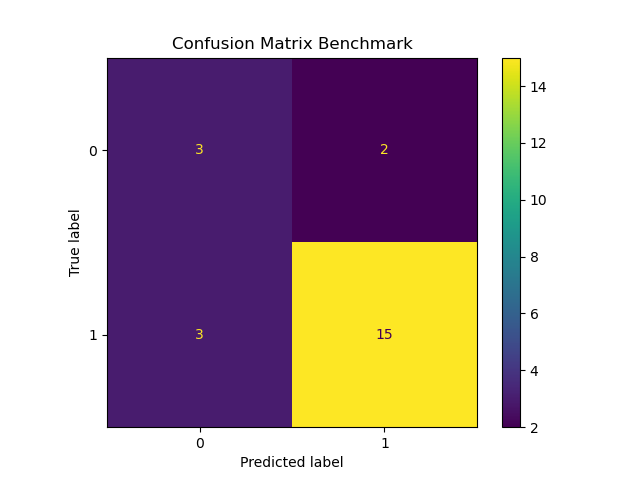
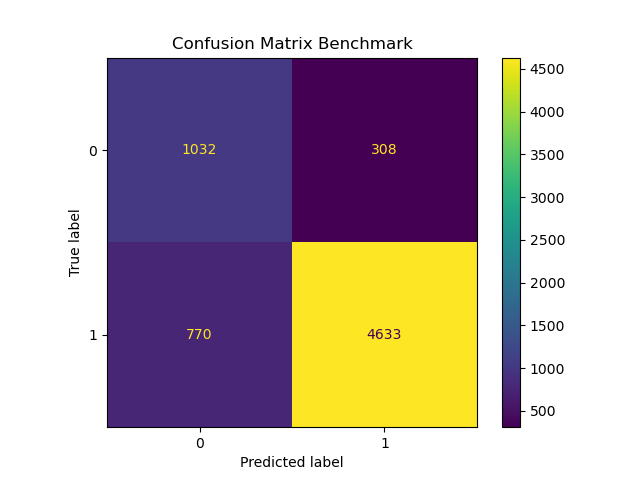
Fixed plots

diff --git a/src/testModels.py b/src/testModels.py
@@ -57,6 +57,7 @@ def load_model(model_name, num_classes):
 def evaluate_model(model, loader, device):
     model.eval()  # Set the model to evaluation mode
     correct, total = 0, 0
+    true_negative, false_positive, false_negative, true_positive = 0, 0, 0, 0  # Initialize here
     tn_hist, tp_hist, fn_hist, fp_hist = torch.zeros(10), torch.zeros(10), torch.zeros(10), torch.zeros(10)
     tn_hist, tp_hist, fn_hist, fp_hist = tn_hist.to(device), tp_hist.to(device), fn_hist.to(device), fp_hist.to(device)
 
@@ -68,10 +69,10 @@ def evaluate_model(model, loader, device):
             preds = torch.argmax(outputs, dim=1)
 
             # Confusion matrix updates
-            true_negative = torch.sum((preds == 0) & (labels == 0)).item()
-            false_positive = torch.sum((preds == 1) & (labels == 0)).item()
-            false_negative = torch.sum((preds == 0) & (labels == 1)).item()
-            true_positive = torch.sum((preds == 1) & (labels == 1)).item()
+            true_negative += torch.sum((preds == 0) & (labels == 0)).item()
+            false_positive += torch.sum((preds == 1) & (labels == 0)).item()
+            false_negative += torch.sum((preds == 0) & (labels == 1)).item()
+            true_positive += torch.sum((preds == 1) & (labels == 1)).item()
 
             # Histogram updates
             tp_mask = (labels == 1) & (preds == 1)
@@ -92,6 +93,8 @@ def evaluate_model(model, loader, device):
 
     # Convert histograms to numpy for return or further processing
     return con_matrix, tp_hist.cpu().numpy(), tn_hist.cpu().numpy(), fp_hist.cpu().numpy(), fn_hist.cpu().numpy(), correct, total
+
+
 
 def ensemble_testing(dataloader, device, googlenet, resnet, densenet):
     w1 = sum([torch.tanh(x) for x in A_googlenet])
